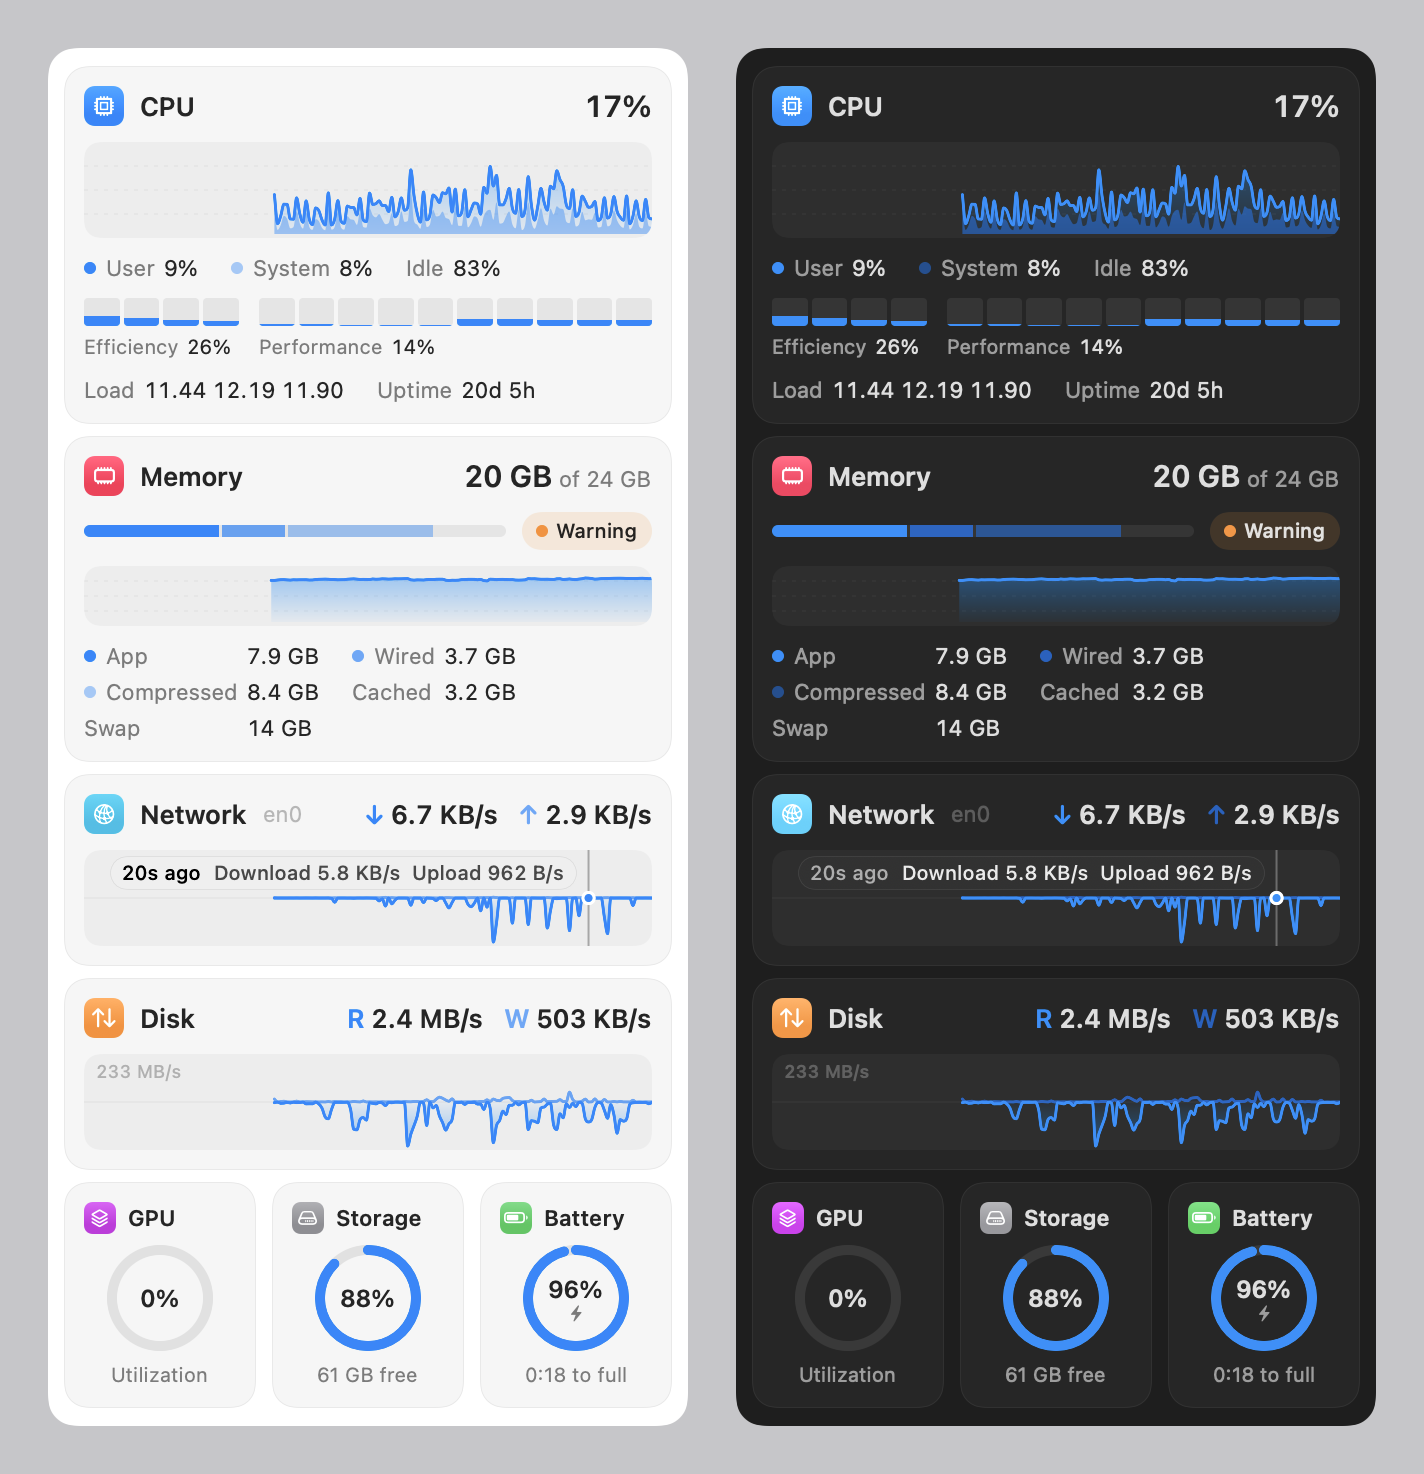
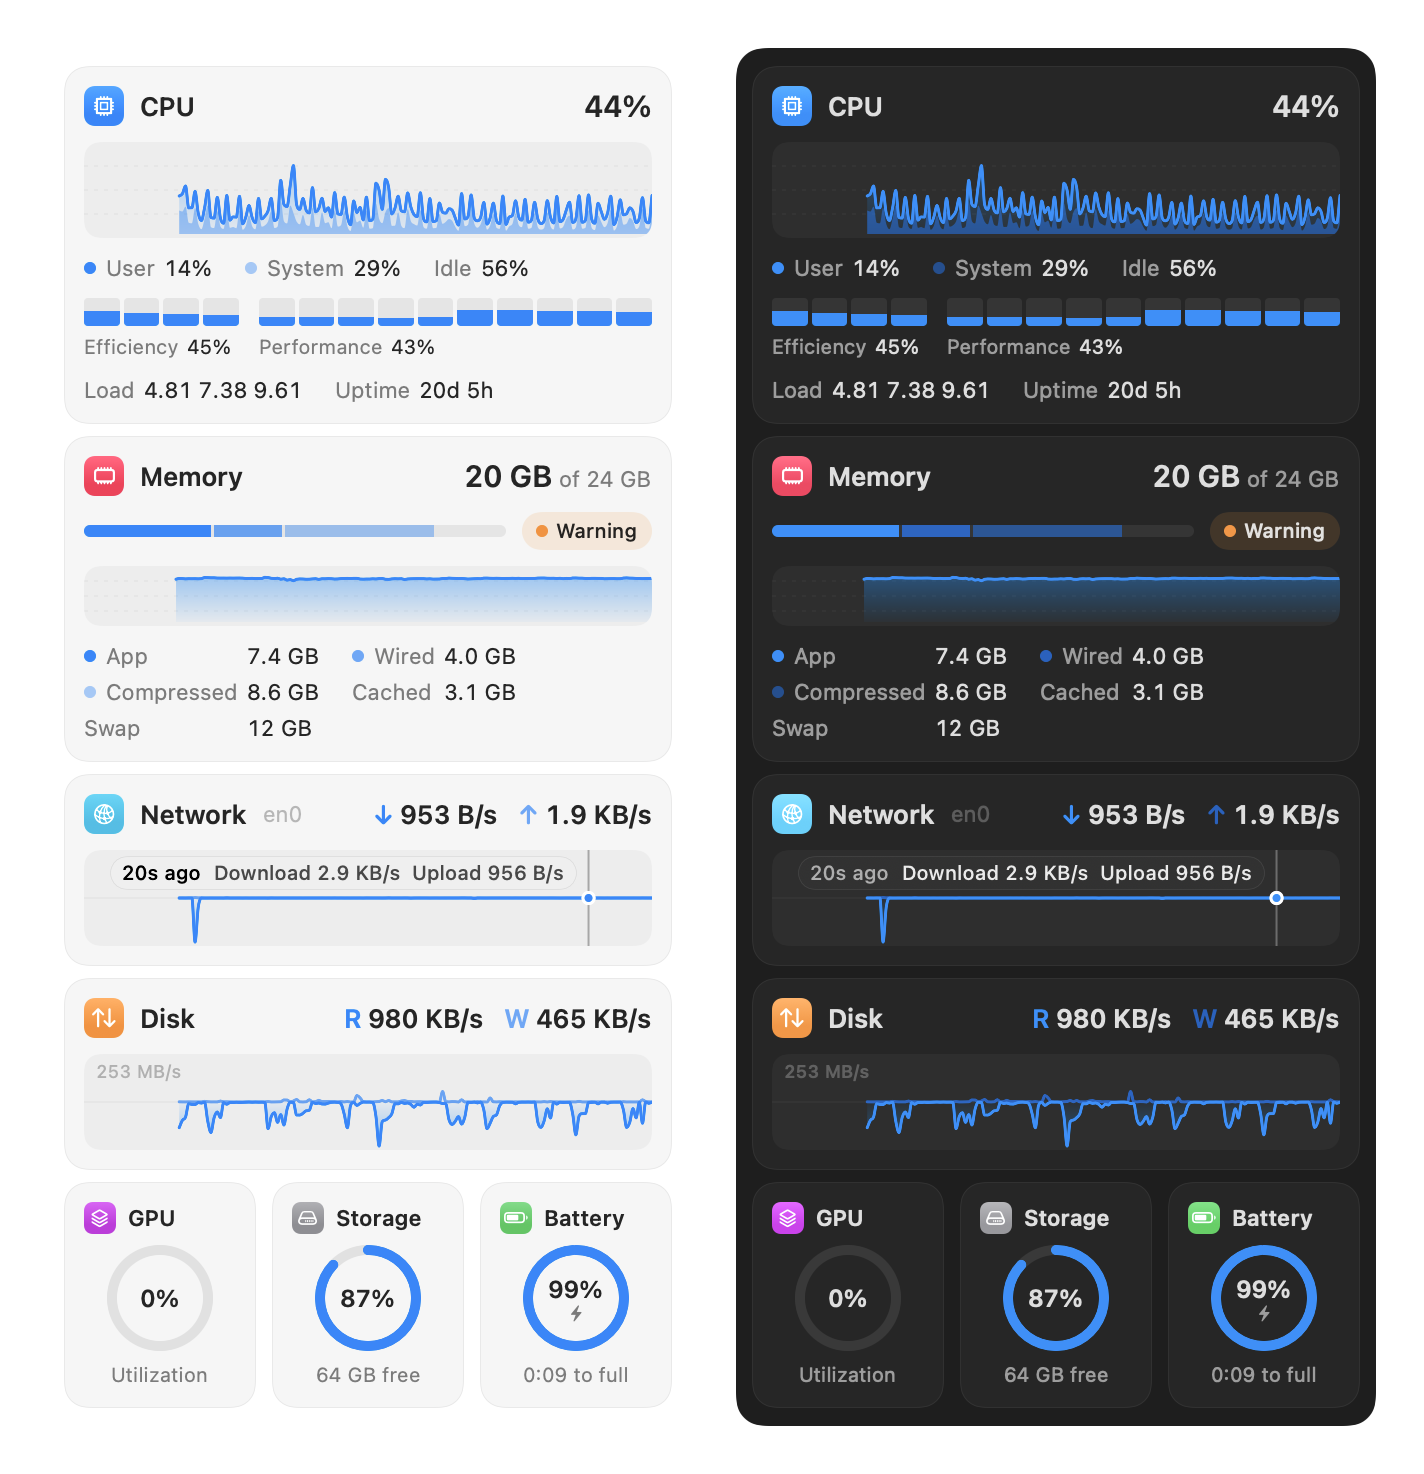
feat(site): add a one-page website served from GitHub Pages (#4)
A project page for people who won't read a README: what it is, a download button, and the real bar and menu in a mock menu bar. It reuses the README snapshots, cropped in CSS to the visitor's appearance, so there is one image pipeline. Snapshot backgrounds become transparent so the crops sit cleanly on any page.

diff --git a/site/index.html b/site/index.html
@@ -1,0 +1,153 @@
+<!doctype html>
+<html lang="en">
+<head>
+  <meta charset="utf-8">
+  <meta name="viewport" content="width=device-width, initial-scale=1">
+  <meta name="color-scheme" content="light dark">
+  <title>StatBar — system stats for the macOS menu bar</title>
+  <meta name="description" content="Native, minimal system stats for the macOS menu bar: CPU, GPU, memory, network, disk, and battery. Free and open source.">
+  <link rel="icon" href="icon.png">
+  <style>
+    :root {
+      --bg: #fbfbfd;
+      --text: #1d1d1f;
+      --secondary: #6e6e73;
+      --accent: #0071e3;
+      --rule: rgba(0, 0, 0, .08);
+      --bar: rgb(237, 237, 237); /* the snapshot's light menu bar band */
+      --bar-text: #1d1d1f;
+      --desk: linear-gradient(160deg, #c9d6ff 0%, #e2e2e2 60%, #f5d7c4 100%);
+      --shot-y: -86px; /* light bar row in bar.png */
+      --menu-x: -24px; /* light menu in bar-menu.png */
+    }
+    @media (prefers-color-scheme: dark) {
+      :root {
+        --bg: #000;
+        --text: #f5f5f7;
+        --secondary: #86868b;
+        --accent: #2997ff;
+        --rule: rgba(255, 255, 255, .12);
+        --bar: rgb(41, 41, 41);
+        --bar-text: #f5f5f7;
+        --desk: linear-gradient(160deg, #1c2541 0%, #0b0b0f 55%, #3a1f2b 100%);
+        --shot-y: -2px;
+        --menu-x: -368px;
+      }
+    }
+
+    * { box-sizing: border-box; }
+    html { -webkit-text-size-adjust: 100%; }
+    body {
+      margin: 0;
+      background: var(--bg);
+      color: var(--text);
+      font: 17px/1.47 -apple-system, BlinkMacSystemFont, "SF Pro Text", "Helvetica Neue", sans-serif;
+      letter-spacing: -.022em;
+      -webkit-font-smoothing: antialiased;
+    }
+    a { color: var(--accent); text-decoration: none; }
+    a:hover { text-decoration: underline; }
+    main { max-width: 980px; margin: 0 auto; padding: 72px 22px 40px; }
+
+    header { text-align: center; }
+    header img { width: 96px; height: 96px; }
+    h1 {
+      margin: 12px 0 0;
+      font: 600 56px/1.07 -apple-system, BlinkMacSystemFont, "SF Pro Display", sans-serif;
+      letter-spacing: -.005em;
+    }
+    .lede { margin: 10px auto 0; max-width: 560px; font-size: 24px; line-height: 1.33; color: var(--secondary); }
+    .actions { margin-top: 26px; display: flex; gap: 14px; justify-content: center; flex-wrap: wrap; }
+    .button {
+      display: inline-block; padding: 11px 22px; border-radius: 980px;
+      background: var(--accent); color: #fff; font-size: 17px;
+    }
+    .button:hover { text-decoration: none; filter: brightness(1.08); }
+    .link { padding: 11px 6px; font-size: 17px; }
+    .fine { margin-top: 14px; font-size: 14px; color: var(--secondary); }
+
+    /* A desktop with the real bar in a menu bar and the real menu hanging from it. */
+    .desk {
+      position: relative; margin: 56px auto 0; max-width: 760px; height: 760px;
+      border-radius: 18px; overflow: hidden; background: var(--desk);
+      box-shadow: 0 20px 60px rgba(0, 0, 0, .18);
+    }
+    .menubar {
+      height: 24px; padding: 0 14px; display: flex; align-items: center; justify-content: flex-end; gap: 16px;
+      background: var(--bar); color: var(--bar-text); font-size: 13px; letter-spacing: 0;
+    }
+    .crop { position: relative; overflow: hidden; flex: none; }
+    .crop img { position: absolute; max-width: none; }
+    .bar { width: 180px; height: 24px; }
+    .bar img { width: 465px; left: -12px; top: var(--shot-y); }
+    .menu {
+      position: absolute; top: 30px; right: 96px; width: 320px; height: 689px;
+      border-radius: 14px; box-shadow: 0 12px 40px rgba(0, 0, 0, .28), 0 0 0 .5px var(--rule);
+    }
+    .menu img { width: 712px; left: var(--menu-x); top: -24px; }
+
+    .features {
+      display: grid; grid-template-columns: repeat(3, 1fr); gap: 40px;
+      margin-top: 72px; padding-top: 40px; border-top: 1px solid var(--rule);
+    }
+    .features h2 { margin: 0 0 6px; font-size: 21px; font-weight: 600; letter-spacing: .011em; }
+    .features p { margin: 0; font-size: 15px; color: var(--secondary); }
+
+    footer {
+      margin-top: 72px; padding-top: 18px; border-top: 1px solid var(--rule);
+      font-size: 12px; color: var(--secondary); display: flex; justify-content: space-between; gap: 12px;
+    }
+
+    @media (max-width: 760px) {
+      h1 { font-size: 40px; }
+      .lede { font-size: 19px; }
+      .desk { height: auto; padding-bottom: 20px; }
+      .menubar .clock { display: none; }
+      .menu { position: relative; top: auto; right: auto; margin: 16px auto 0; }
+      .features { grid-template-columns: 1fr; gap: 28px; }
+    }
+  </style>
+</head>
+<body>
+  <main>
+    <header>
+      <img src="icon.png" alt="">
+      <h1>StatBar</h1>
+      <p class="lede">System stats for the menu bar. Small type, small graphs, nothing else.</p>
+      <div class="actions">
+        <a class="button" href="https://github.com/oddurs/statbar/releases/latest">Download for Mac</a>
+        <a class="link" href="https://github.com/oddurs/statbar">View on GitHub ›</a>
+      </div>
+      <p class="fine">Free and open source · macOS 14 or later · Apple silicon and Intel</p>
+    </header>
+
+    <div class="desk" role="img" aria-label="StatBar in the menu bar showing CPU, memory, and network, with its menu open showing graphs for each.">
+      <div class="menubar">
+        <div class="crop bar"><img src="bar.png" alt=""></div>
+        <span class="clock">Thu 9:41 AM</span>
+      </div>
+      <div class="crop menu"><img src="bar-menu.png" alt=""></div>
+    </div>
+
+    <section class="features">
+      <div>
+        <h2>Native.</h2>
+        <p>The menu bar tints it like the clock. The dropdown is a real menu. Settings looks like System Settings. VoiceOver reads every value.</p>
+      </div>
+      <div>
+        <h2>Accurate.</h2>
+        <p>The same kernel counters Activity Monitor reads, with tests that compare them against <code>vm_stat</code> and <code>netstat</code>. A value it can't read shows as a dash, never as zero.</p>
+      </div>
+      <div>
+        <h2>Light.</h2>
+        <p>About 0.1 ms to sample everything and 12 MB of memory. It stops drawing when you can't see it and samples less in Low Power Mode.</p>
+      </div>
+    </section>
+
+    <footer>
+      <span>© 2026 Oddur Sigurdsson · MIT License</span>
+      <a href="https://github.com/oddurs/statbar">github.com/oddurs/statbar</a>
+    </footer>
+  </main>
+</body>
+</html>

diff --git a/Sources/StatBar/Snapshot.swift b/Sources/StatBar/Snapshot.swift
@@ -39,8 +39,7 @@ enum SnapshotCommand {
             content: HStack(alignment: .top, spacing: 24) {
                 menu(.light); menu(.dark)
             }
-            .padding(24)
-            .background(Color.gray.opacity(0.5)))
+            .padding(24))
         renderer.scale = 2
         guard let image = renderer.nsImage, let tiff = image.tiffRepresentation,
             let png = NSBitmapImageRep(data: tiff)?.representation(using: .png, properties: [:])

diff --git a/README.md b/README.md
@@ -1,8 +1,9 @@
 # StatBar
 
+[![CI](https://github.com/oddurs/statbar/actions/workflows/ci.yml/badge.svg)](https://github.com/oddurs/statbar/actions/workflows/ci.yml)
 [![License: MIT](https://img.shields.io/badge/license-MIT-blue.svg)](LICENSE)
 
-System stats in the macOS menu bar: CPU, GPU, memory, network, disk activity, storage, and battery. Small type, small graphs, nothing else.
+System stats in the macOS menu bar: CPU, GPU, memory, network, disk activity, storage, and battery. Small type, small graphs, nothing else. **[oddurs.github.io/statbar](https://oddurs.github.io/statbar/)**
 
 ![StatBar in light and dark menu bars](docs/bar.png)
 
